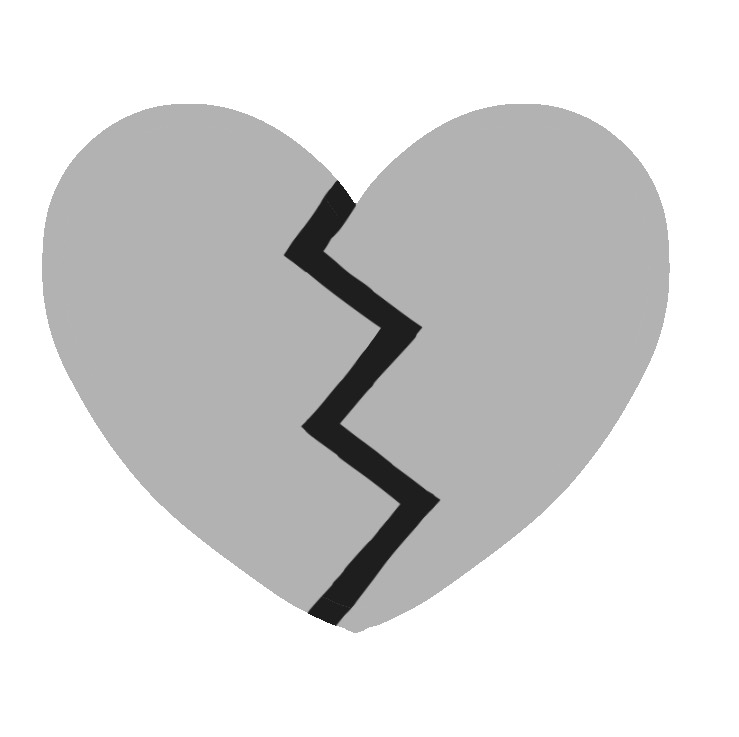
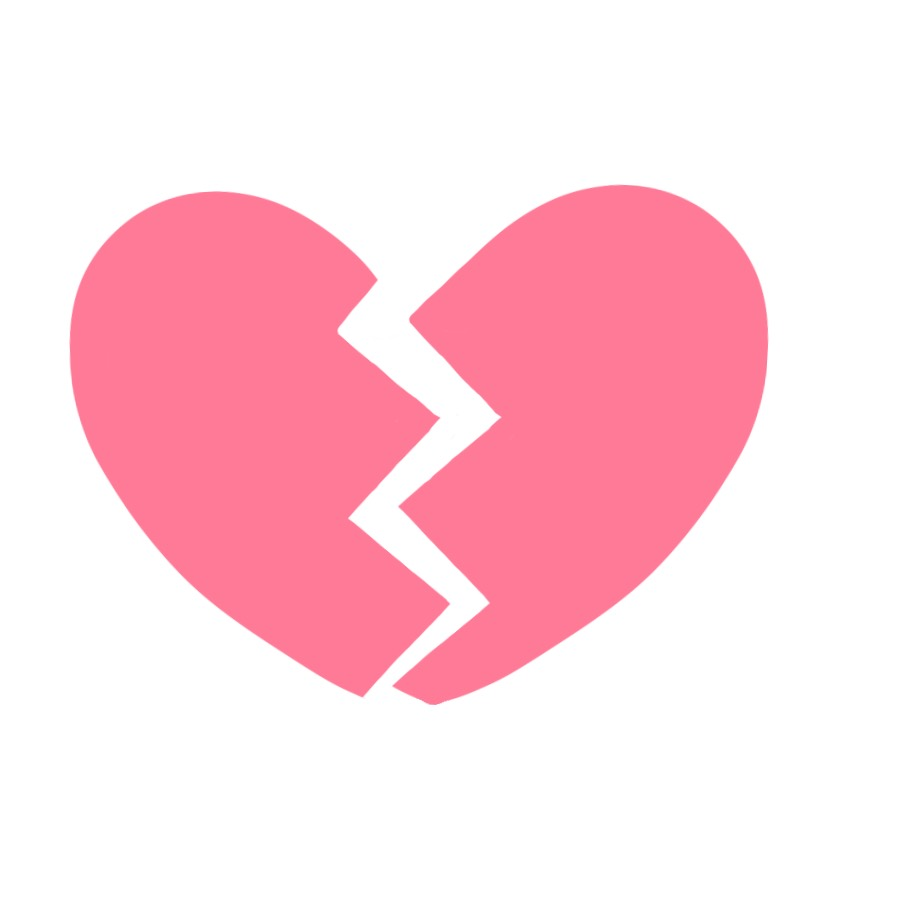
Keep pink broken hearts for pending and lost lives

diff --git a/index.html b/index.html
@@ -12,7 +12,7 @@
     <link rel="stylesheet" href="otome-style.css?v=20261010-standing-art">
   <link rel="stylesheet" href="royal-style.css?v=20261020-salon-upright">
     <link rel="stylesheet" href="title-screen.css?v=20261010-ornate-title">
-    <link rel="preload" as="image" href="life-heart-broken.jpg?v=20261017">
+    <link rel="preload" as="image" href="life-heart-broken.jpg?v=20261021-pink">
     <link rel="preload" as="image" href="salon-background.png?v=20261019" fetchpriority="low">
   </head>
   <body class="royal-theme title-active">
@@ -79,6 +79,6 @@
     </main>
 
     <script src="game-data.js?v=20261020-a353204"></script>
-    <script src="app.js?v=20261020-ending-single-break"></script>
+    <script src="app.js?v=20261021-pink-broken-heart"></script>
   </body>
 </html>

diff --git a/otome.html b/otome.html
@@ -12,7 +12,7 @@
     <link rel="stylesheet" href="otome-style.css?v=20261010-standing-art">
   <link rel="stylesheet" href="royal-style.css?v=20261020-salon-upright">
     <link rel="stylesheet" href="title-screen.css?v=20261010-ornate-title">
-    <link rel="preload" as="image" href="life-heart-broken.jpg?v=20261017">
+    <link rel="preload" as="image" href="life-heart-broken.jpg?v=20261021-pink">
     <link rel="preload" as="image" href="salon-background.png?v=20261019" fetchpriority="low">
   </head>
   <body class="royal-theme title-active">
@@ -79,6 +79,6 @@
     </main>
 
     <script src="game-data.js?v=20261020-a353204"></script>
-    <script src="app.js?v=20261020-ending-single-break"></script>
+    <script src="app.js?v=20261021-pink-broken-heart"></script>
   </body>
 </html>

diff --git a/app.js b/app.js
@@ -110,9 +110,9 @@ function updateLives() {
     const filled = index < state.lives;
     const broken = state.pendingLifeLoss && index === state.lives - 1;
     heart.className = `life-heart${broken ? " is-broken" : filled ? "" : " is-empty"}`;
-    heart.src = broken
-      ? "life-heart-broken.jpg?v=20261017"
-      : filled ? "life-heart-full.jpg?v=20261016-v2" : "life-heart-empty.jpg?v=20261016-v2";
+    heart.src = filled && !broken
+      ? "life-heart-full.jpg?v=20261016-v2"
+      : "life-heart-broken.jpg?v=20261021-pink";
     heart.alt = "";
     heart.draggable = false;
     heart.width = 30;

diff --git a/classic.html b/classic.html
@@ -72,6 +72,6 @@
     </main>
 
     <script src="game-data.js?v=20261020-a353204"></script>
-    <script src="app.js?v=20261020-ending-single-break"></script>
+    <script src="app.js?v=20261021-pink-broken-heart"></script>
   </body>
 </html>

diff --git a/otome-original.html b/otome-original.html
@@ -72,6 +72,6 @@
     </main>
 
     <script src="game-data.js?v=20261020-a353204"></script>
-    <script src="app.js?v=20261020-ending-single-break"></script>
+    <script src="app.js?v=20261021-pink-broken-heart"></script>
   </body>
 </html>
